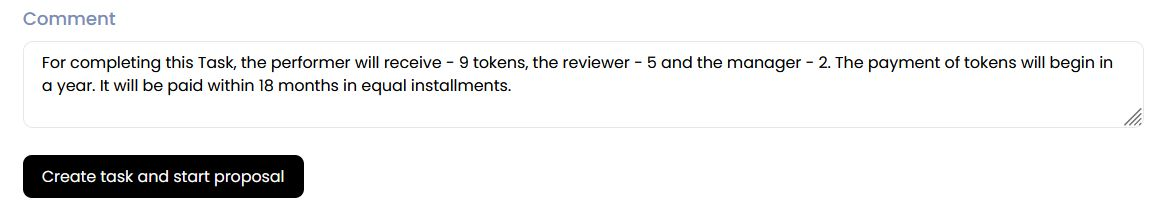
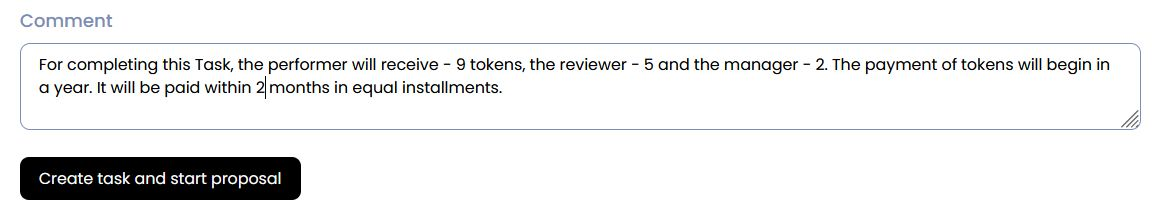
wip create task

diff --git a/docs/working-with-gosh/gosh-web.md b/docs/working-with-gosh/gosh-web.md
@@ -194,9 +194,9 @@ To view your public key go to the main page of your account and click [**Setting
 
 ![](../images/gosh_web_Create_ORG_03_list_orgs.jpg)
 
-The first mandatory member is the creator, identified by their username.
+The first mandatory member is the GOSH DAO Bot. It will synchronize repositories with github on Gosh.
 
-The second member is the GOSH DAO Bot. It will synchronize repositories with github on Gosh.
+The second member is the creator, identified by their username.
 
 At any later time the list of members [can be expanded](gosh-web.md#add-members-to-dao) by voting.
 
@@ -882,6 +882,8 @@ The branches will be compared. Review the changes, set up the pull request and c
 
 ## __Working with Task__
 
+
+
 To create a Task, go to the Tasks tab and click **Create Task**
 
 ![](../images/gosh_web_Create_Task_01.jpg)
@@ -892,27 +894,31 @@ Select the repository for which the Task is being created.
 
 ![](../images/gosh_web_Task_02_fill_repo.jpg)
 
-Add the task name. 
+Add the Task name.
 
-You can add up to 3 tags separated by spaces to quickly find the task.
+You can add 3 tags separated by spaces to quickly find the task.
 
 ![](../images/gosh_web_Task_03_name_tags.jpg)
 
 Then you need to evaluate the Task.
 
+The cost of the Task is the number of tokens that will be paid from the DAO reserve.
+
 !!! info
-    The cost of Tasks is determined by the members of the DAO.
+    The members of the DAO agree between themselves how to evaluate the tasks.
 
+The results of the Task should be a pull request.
 
-If a pull request is attached to the Task after completion, these tokens will be distributed from DAO reserve between the author, reviewer(s) and manager.
-
+After attaching a pull request to the Task, the tokens will be distributed between the author, reviewer and manager in the ratio you set.
 
 **Author** - The person who executes the Task.  
-**Reviewer** - The person who checks the correctness of the task. There could be more about.  
-**Manager** - The person who makes the decision to complete the task.
+**Reviewer** - The person who checks the correctness of the Task.  
+**Manager** - The person who makes the decision to complete the Task.
 
 !!! info
-    If the Task does not have a reviewer(s) and/or a manager, then do not specify their part.
+    The number of authors, areviewers and managers is set at your choice.  
+    <!-- If, when forming a task, you assign rewards for the reviewer and the manager, and the task was performed without them, then author will receive his part, and not the ones issued to return to the dao reserve.  
+    All non-rewards will be returned to the DAO Reserve. -->
 
 ![](../images/gosh_web_Task_04_cost_distrb.jpg)
 
@@ -921,7 +927,10 @@ Select vesting and lock periods.
 **Lock (Cliif)** - The period in which the tokens are locked up.  
 **Vesting** - rules for transferring the fixed part of the tokens to the disposal of the contractor.
 
-For example, lock - 12 months, vesting - 18 months.  
+For example, lock - 12 months, vesting - 2 months.  
+
+!!! warning
+    In order for the investment scheme to be correct, the smaller of the number of tokens allocated to the participants of the task must be a multiple of the number of months of investment.
 
 ![](../images/gosh_web_Task_05_lock_vesting.jpg)
 
@@ -933,7 +942,13 @@ After creating the proposal, you will be taken to the DAO page with events.
 
 ![](../images/gosh_web_Task_07_event.jpg)
 
+Inside the proposal you will be able to see all the conditions of the Task.  
+In the table you can see the period since which month and in what parts the payments will be made to the participants of the Task.
 
+<!-- ![](../images/gosh_web_Task_08_proposal.jpg) -->
 
-!!! info
-    If there are no costs in the Task, then you do not need to vote for it.
+![](../images/gosh_web_Task_09_event_details.jpg)
+
+After accepting the Offer, the Task will appear in the list on the Tasks tab.
+
+![](../images/gosh_web_Task_10_list_tasks.jpg)
